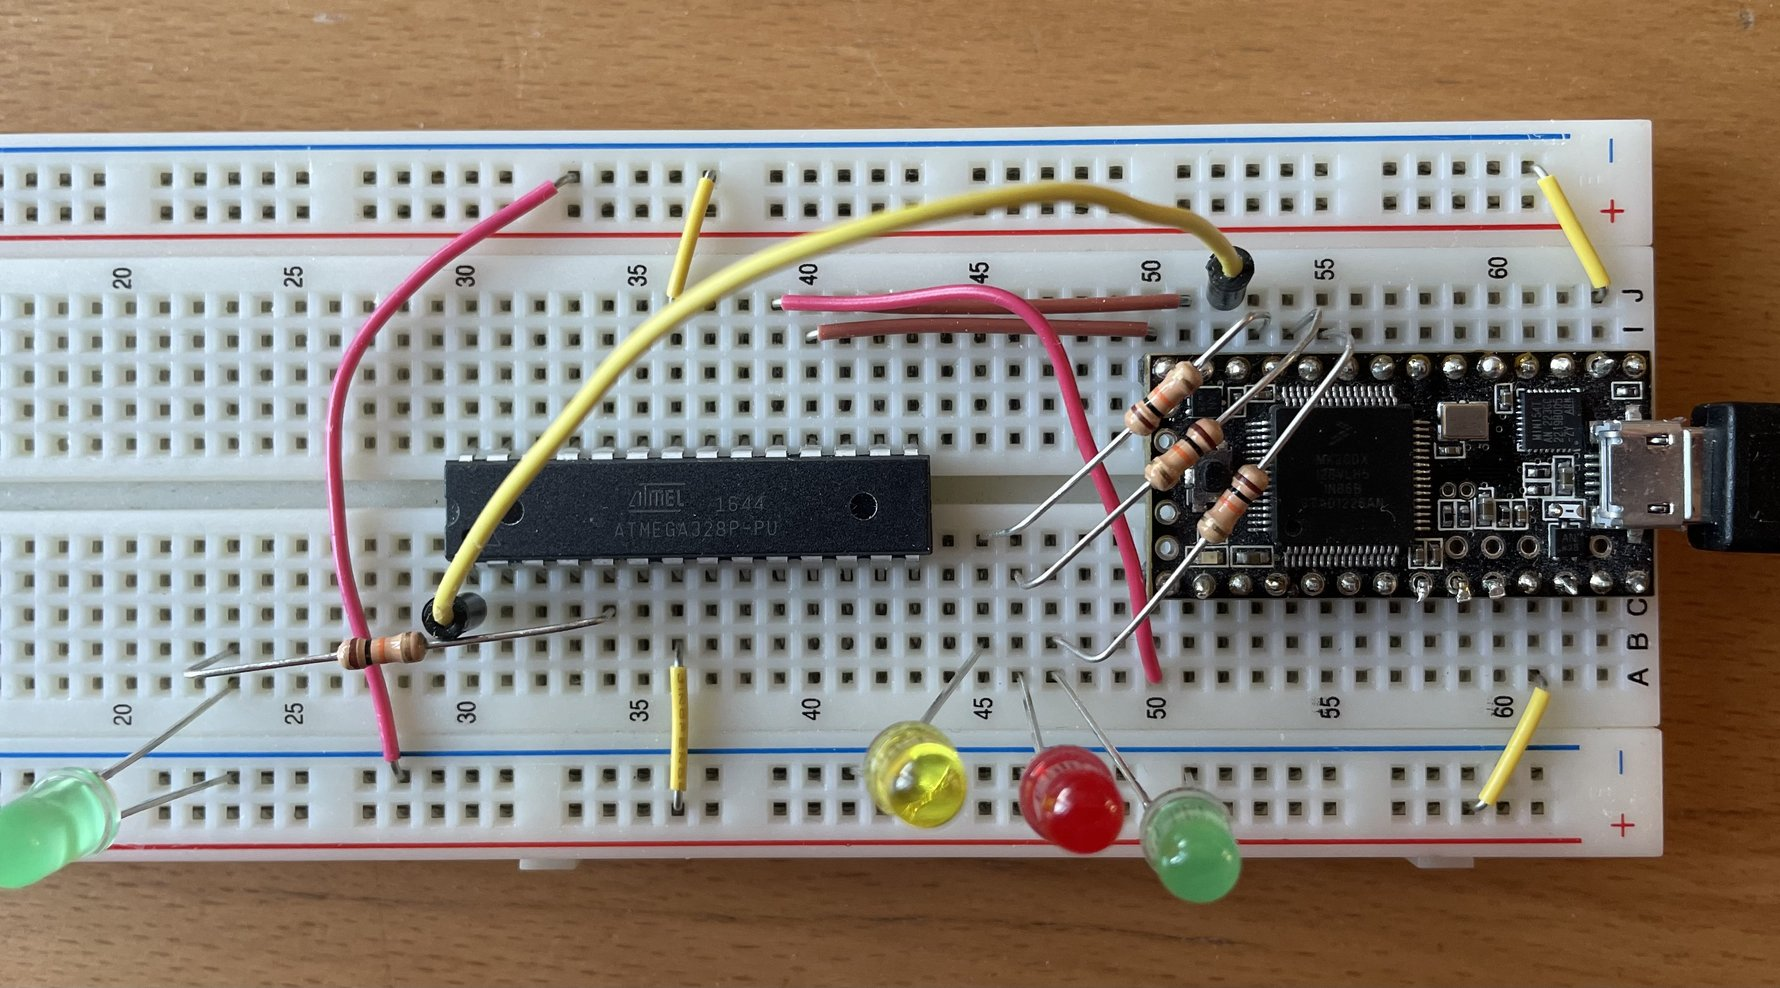
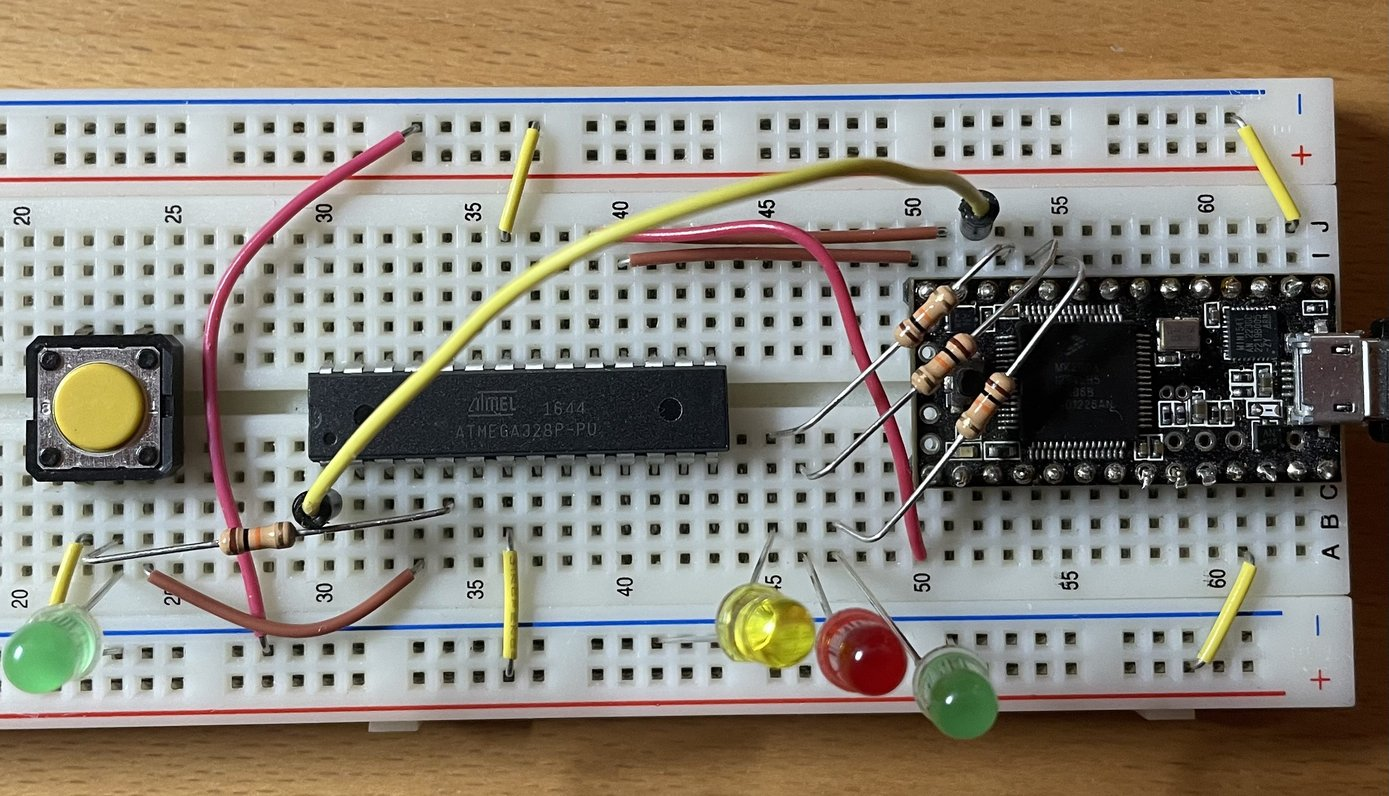
Dokumentiere

diff --git a/riot/blinky/README.md b/riot/blinky/README.md
@@ -2,6 +2,7 @@ Blinky!
 =======
 
 Einfaches blinky-Beispiel, ursprünglich von [RIOT/2025.07](https://github.com/RIOT-OS/RIOT/tree/2025.07/examples/basic/blinky) übernommen.
+Die Blink-LED hängt an PORT `PD3`, der Button an `PD2`. Bisher wird wahrscheinlich `INT0`verwendet.
 
 ![](board.jpg)
 
@@ -16,6 +17,13 @@ Erzeugt: `bin/atmega328p/blinky.hex`:
 Flashen mit dem Teensy-Flasher und `avrdudei`:
 
     avrdude -c arduino -p m328p -P /dev/ttyACM0 -U flash:w:bin/atmega328p/blinky.hex:i
+
+Todo
+----
+
+- Verwende Messaging
+- Verwende niedrigeren Interrupt
+- Entprelle den Button
 
 Ursprüngliches readme
 ---------------------
